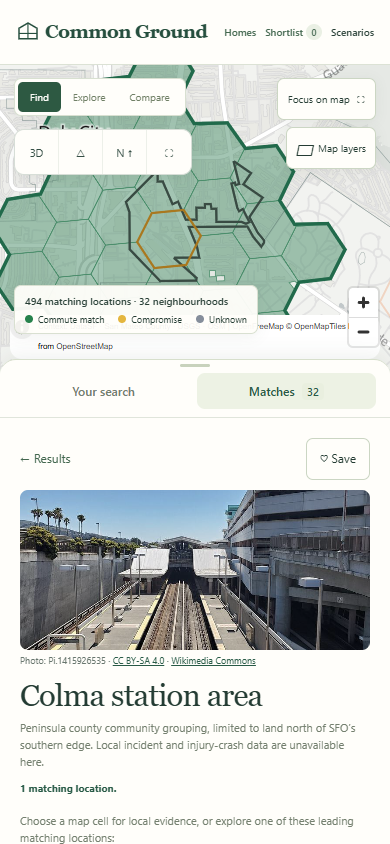
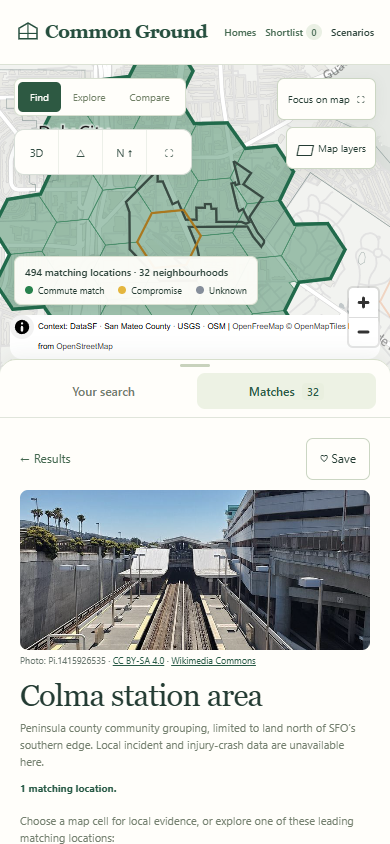
fix: validate data CI and clear mobile map attribution

Changed region(s): [[0.0308, 0.2773, 0.6769, 0.4005]]

diff --git a/src/styles.css b/src/styles.css
@@ -515,7 +515,7 @@ h1, h2, h3, p { overflow-wrap: break-word; }
   .layers-toggle { font-size: 10px; min-height: 34px; padding: 7px 9px; gap: 4px; }
   .floating-layers { width: 270px; max-height: calc(100dvh - 165px); z-index: 30; }
   .coverage-caption { display: none; }
-  .match-legend, .map-focused .match-legend { left: 14px; bottom: 35px; max-width: calc(100% - 80px); padding: 8px 10px; font-size: 9px; border-radius: 7px; }
+  .match-legend, .map-focused .match-legend { left: 14px; bottom: 64px; max-width: calc(100% - 80px); padding: 8px 10px; font-size: 9px; border-radius: 7px; }
   .match-legend b { font-size: 10px; margin-bottom: 5px; }
   .match-legend small { display: none; }
   .map-badge { left: 14px; top: 62px; transform: none; font-size: 10px; max-width: 230px; }

diff --git a/docs/UPGRADE_PROGRESS.md b/docs/UPGRADE_PROGRESS.md
@@ -53,4 +53,5 @@
 - Initial performance evidence exposed an unnecessary 3.36 MB geometry load on the empty opening screen. It is now deferred. Final opening transfer is 0.84 MB, about 80% lower. On constrained 4G/4× CPU it opens in 8.6 seconds; the first uncached search still needs 18.8 seconds. Both costs are disclosed.
 - Final tested DEM view transferred 480,938 bytes in 11 tiles. Drag intervals with real buildings, terrain and matches loaded: 16.8 ms p95 unthrottled, 33.3 ms constrained. Full deployed artefact about 23.45 MB. No console errors in either measurement.
 - Final review captures and measurement/HTTP JSON are stored in `docs/review/`; the verification report distinguishes local preview headers from untested production cache headers.
-- Remaining work: feature-branch commit/push, draft PR and CI result. No merge, production deployment or paid resource creation.
+- Core upgrade committed and pushed. Draft [PR #3](https://github.com/markfoth/SuperSet-Hackathon---SF/pull/3) is open. A final capture review moved the mobile legend clear of attribution. The new CI workflow's colon-containing install command was corrected to a YAML block and parsed locally; full Linux test result remains to be recorded.
+- Production alias was rechecked after the feature push and still points to the original main deployment. No merge, production deployment or paid resource creation.
